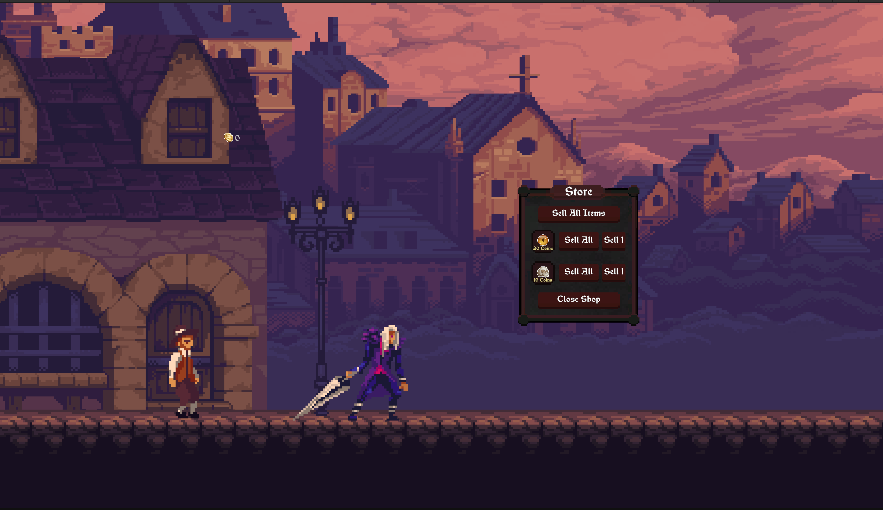
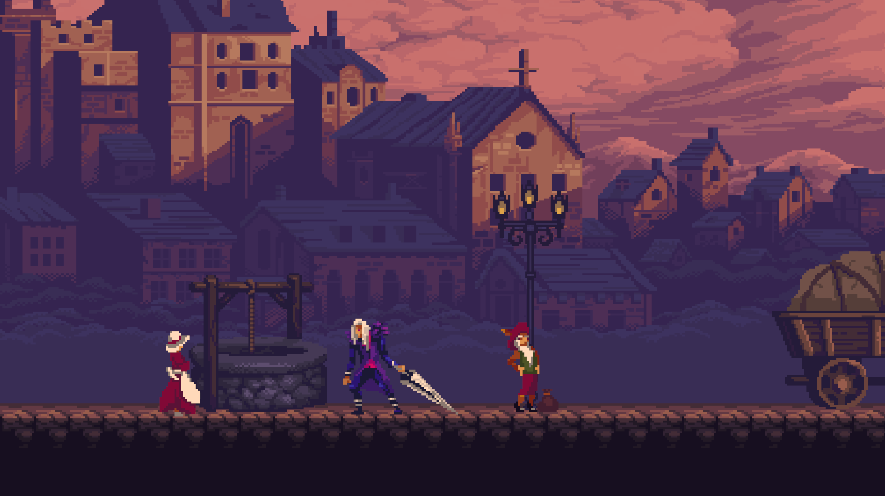
clean up and tweaks

diff --git a/Projects/FYP.md b/Projects/FYP.md
@@ -33,6 +33,14 @@ title: Final Year Project
                 </iframe>
             </div>
         </div>
+        <div class = "windowContainer">
+            <div class = "textHeading">
+                <img src="/assets/Icons/Windows/star.png">
+                <p><strong>Dragon Models</strong></p>
+                <img src = "/assets/Icons/Windows/close.png" style = "margin-left: auto;">
+            </div>
+            <img src = "/assets/Images/Unity/Fyp/DragonModelsPainted.jpg" title = "The physical dragon models :)">
+        </div>
         <div class = "flexRow">
             <div class = "windowContainer">
                 <div class = "textHeading">

diff --git a/index.md b/index.md
@@ -34,7 +34,7 @@ title: Portfolio
             <p>I've been making games for 4 years, mainly in Unity but I've dabbled in Unreal. My main focus is on programming player focused gameplay systems rather than graphics or terrain generation. I approach my systems from a designers point of view as well as that of a programmer allowing me to create mechanics that create fun experiences for the player. </p>
             <p>I'm soon to be graduating from a Games Design and Programming course at the University of Staffordshire!</p>
             <h3 style= "text-align:center; font-size: 160%">Skills: Unity / Unreal | C# | C++ </h3>
-            <p>These will be spaced around the site but feel free to reach out or take a peek at these platforms. :D</p>
+            <p>These platforms can also be found within the start menu, feel free to reach out or be nosey. :D</p>
             <!-- Put buttons for github / linkedin/ other here-->
             <div class = "buttonWrapper">
                 <a href = "https://www.linkedin.com/in/tyler-wood-29aba6362/" target = "_blank">